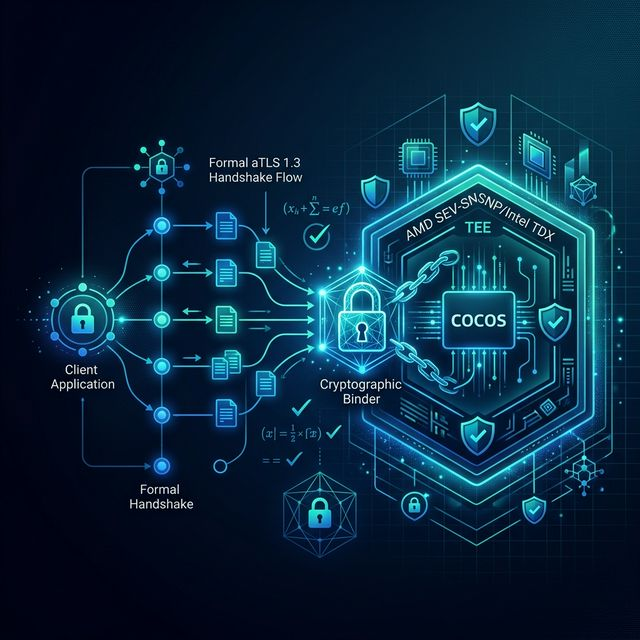
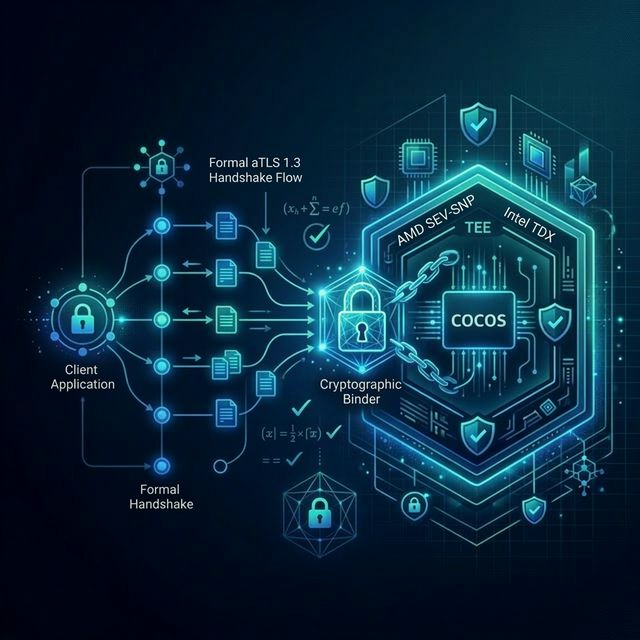
docs: Clarify nonce freshness with TLS exporters in aTLS binding explanation and update the cover image.

diff --git a/src/content/blog/atls-binding-milestone.md b/src/content/blog/atls-binding-milestone.md
@@ -39,23 +39,25 @@ Cocos AI now achieves this through three major architectural shifts:
 ### 1. Exclusive TLS 1.3
 We have dropped support for older TLS versions in our aTLS paths. TLS 1.3 provides a cleaner handshake and superior key derivation functions (HKDF) which are essential for robust session export.
 
-### 2. TLS Exporters (RFC 5705)
-Instead of relying on a user-provided nonce or a public key hash delivered via SNI, the new protocol leverages **TLS Exporters**. We derive a unique, session-specific value directly from the TLS 1.3 master secret and the handshake transcript:
+### 2. TLS Exporters & Nonce Freshness (RFC 5705)
+A common misconception is that session binding replaces the need for a nonce. In the new Cocos aTLS flow (based on the [IETF EXPAT draft](https://datatracker.ietf.org/doc/draft-fossati-seat-expat/)), the nonce provided by the CLI is now carried within the `certificate_request_context`.
+
+This context is then used as the `context_value` for the TLS Exporter, ensuring that the derived value is both fresh (non-repeating) and cryptographically bound to the session:
 
 ```go
 // From pkg/atls/eaattestation/binding.go
 func ComputeBinding(st *tls.ConnectionState, label string, contextValue []byte, leaf *x509.Certificate) (exportedValue, aikPubHash, binding []byte, err error) {
+    // contextValue here contains the Verifier-provided nonce
     exportedValue, h, err := ExportAttestationValue(st, label, contextValue)
     // ...
     pub, _ := PublicKeyBytes(leaf)
-    aikPubHash = Hash(h, pub)
     binding = Hash(h, pub, exportedValue)
     return exportedValue, aikPubHash, binding, nil
 }
 ```
 
-The binding value is defined as:
-$$\text{Binding} = \text{Hash}(\text{PublicKey} \parallel \text{TLS-Exporter}(\text{Label, Context}))$$
+The binding value, which serves as the final attestation challenge, is defined as:
+$$\text{Binding} = \text{Hash}(\text{PublicKey} \parallel \text{TLS-Exporter}(\text{Label, Nonce}))$$
 
 ### 3. Level 2 Binding Logic
 By including this TLS-exported binder in the attestation's `report_data`, we achieve **Level 2 Binding** (Correlation to Handshake Traffic Keys). This ensures that the evidence is fundamentally bound to the cryptographic state of the *specific* TLS session.
@@ -72,10 +74,10 @@ sequenceDiagram
     
     Note over Client,Server: 2. Secure Channel Established
     
-    Client->>Server: AuthenticatorRequest (Context, Extensions)
+    Client->>Server: AuthenticatorRequest (Nonce, Extensions)
     
     Note over Server: 3. Compute Binding
-    Note over Server: ExportedValue = TLS-Exporter("Attestation", Context)
+    Note over Server: ExportedValue = TLS-Exporter("Attestation", Nonce)
     Note over Server: Binding = Hash(PubKey || ExportedValue)
     
     Server->>Server: Request TEE Report (report_data = Binding)
